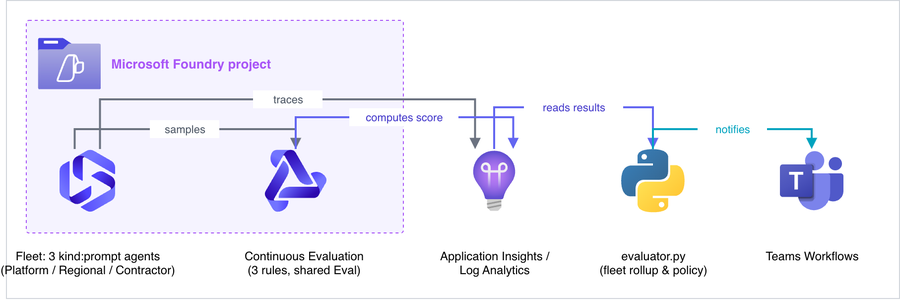
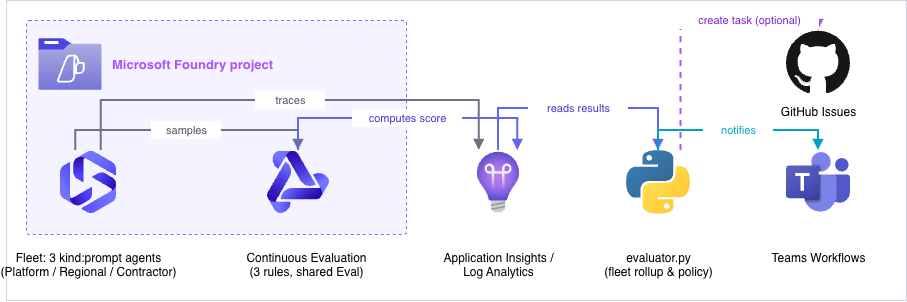
docs(qlt-001): show the optional GitHub backlog item in the architecture diagram
Add a GitHub Issues node above Teams Workflows in the icon-based
infrastructure diagram, fed by a dashed "create task (optional)" edge from
evaluator.py alongside the existing solid "notifies" edge to Teams --
matching the optional Power Automate extension documented in
docs/TEAMS-DELIVERY.md. Dashed and separately colored (purple, vs teal for
"notifies") specifically to signal this path is optional and configured in
the flow, not part of demo.py.

Extracted the GitHub octocat mark from the same cached iconify logos pack
already used for the Teams icon (media/icons/microsoft-teams.svg). Re-
rendered media/architecture.png via scripts/render_drawio_diagram.py at
the same scale as before.

diff --git a/controls/grounding_and_quality/QLT-001_hallucination_rate_high/README.md b/controls/grounding_and_quality/QLT-001_hallucination_rate_high/README.md
@@ -202,13 +202,16 @@ flowchart LR
 ## Demo infrastructure setup (simplified)
 
 <p align="center">
-  <img src="media/architecture.png" alt="QLT-001 fleet, Continuous Evaluation, Azure Monitor, deterministic policy, and Teams routing" width="900">
+  <img src="media/architecture.png" alt="QLT-001 fleet, Continuous Evaluation, Azure Monitor, deterministic policy, Teams routing, and an optional GitHub Issues backlog item" width="900">
 </p>
 
 Bicep creates a control-owned Log Analytics workspace, Application Insights
 resource, Foundry connection, and the required role assignments. `demo.py`
 registers the agents and evaluation rules, sends traffic, reads completed
-scores, writes minimized local evidence, and routes a Teams card.
+scores, writes minimized local evidence, and routes a Teams card. The
+dashed line is not part of `demo.py` at all -- it is what the Product Owner
+Teams flow can optionally also do, entirely in Power Automate; see
+[docs/TEAMS-DELIVERY.md](docs/TEAMS-DELIVERY.md#optional-also-create-an-assigned-backlog-item).
 
 ## Implementation
 
